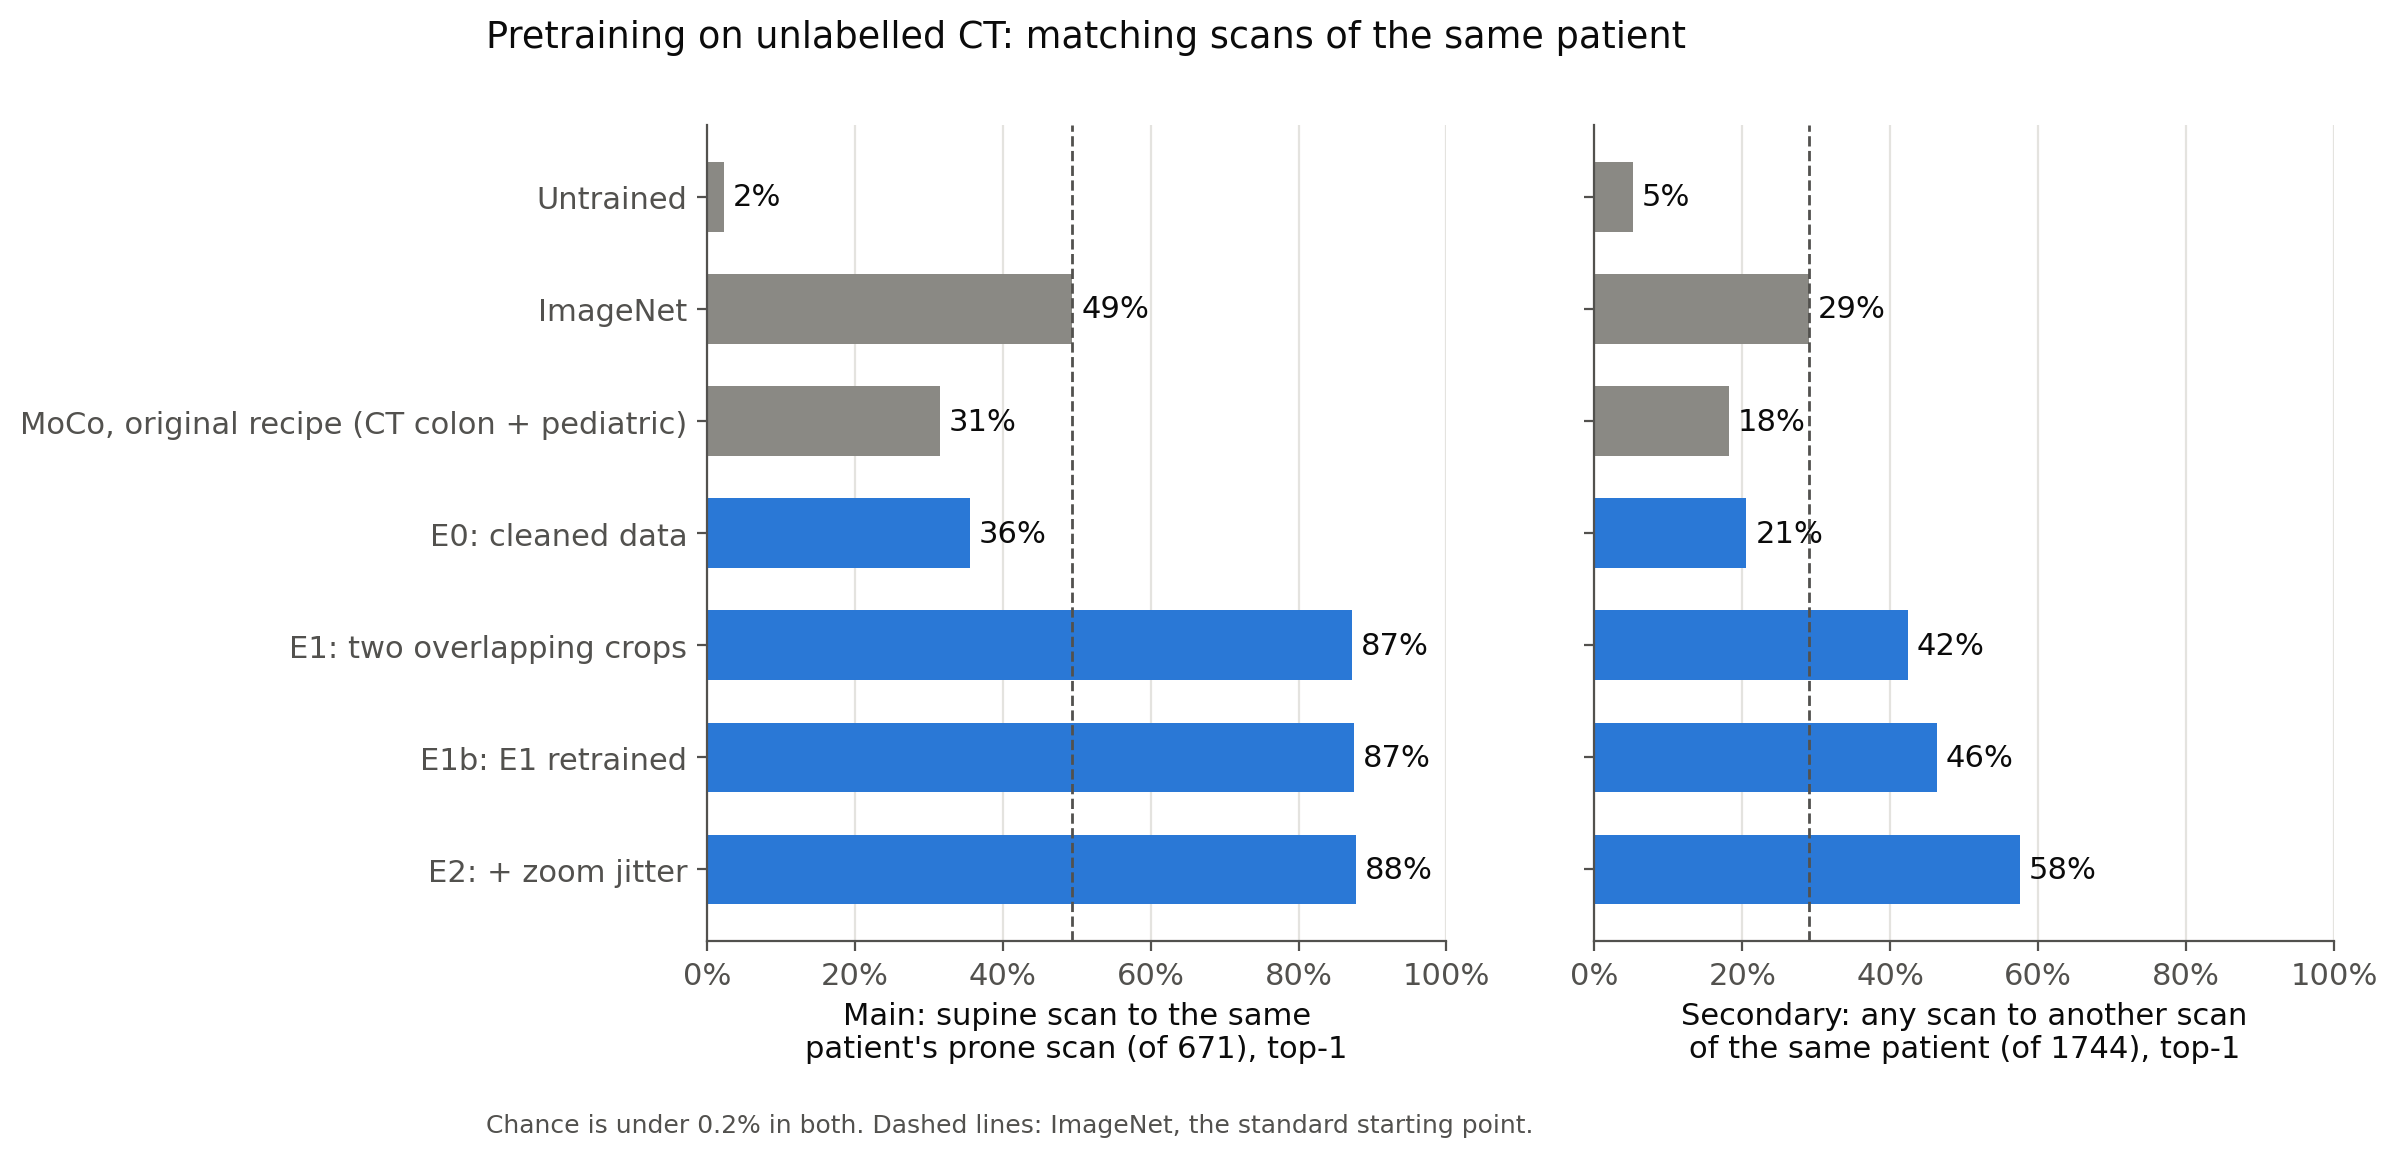
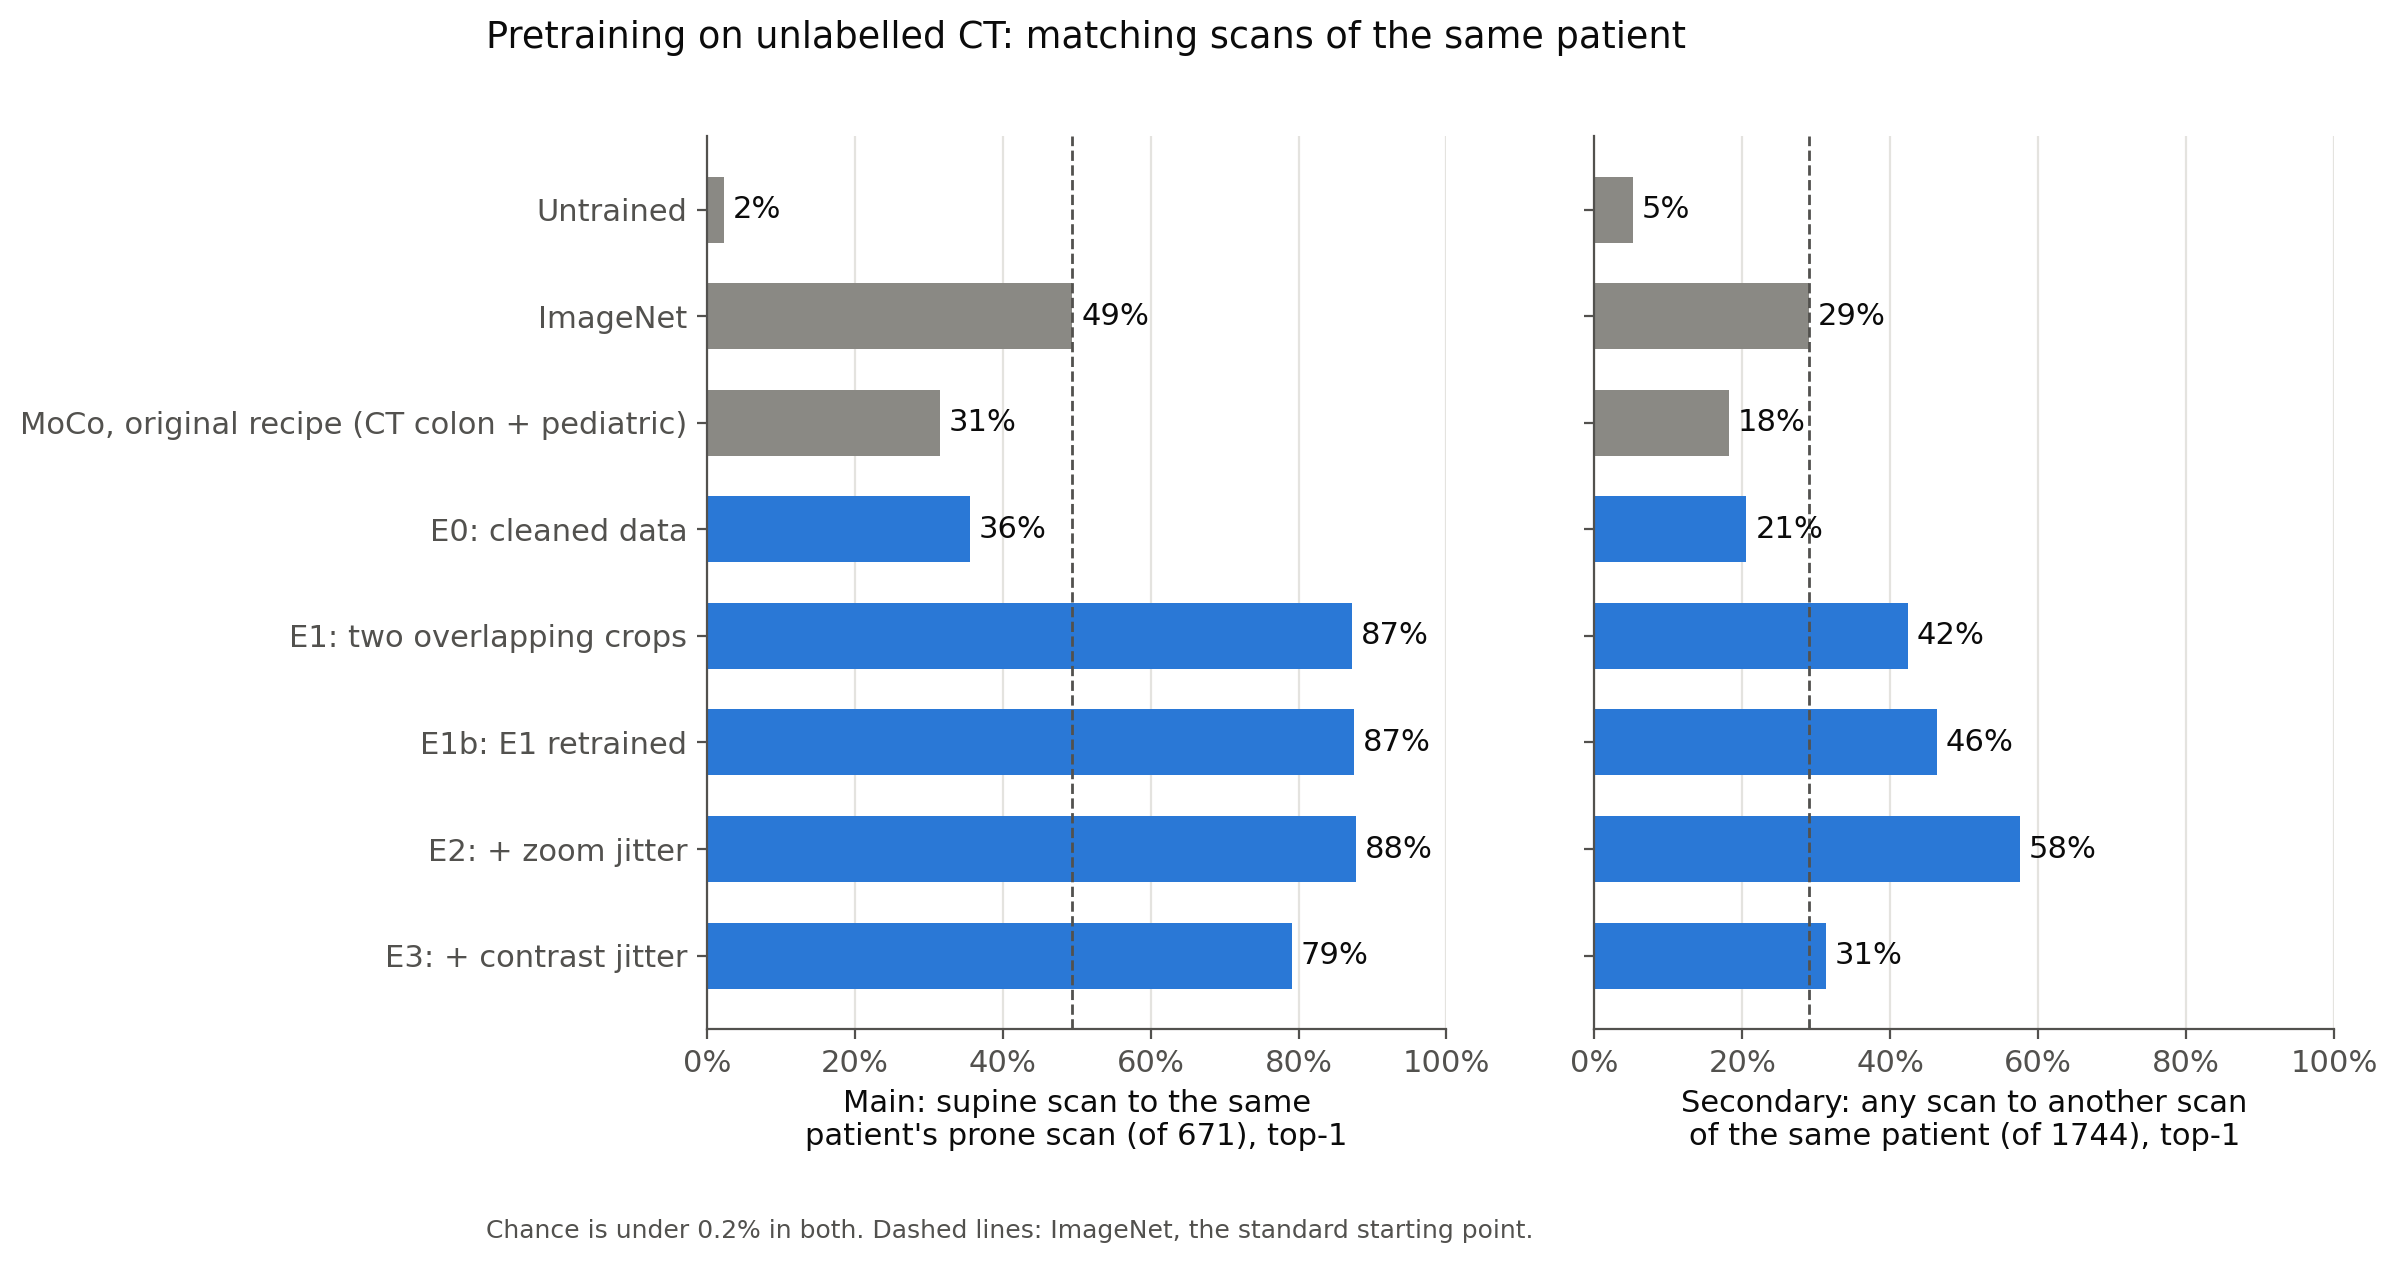
docs: record E3 result (window jitter harmful; E2 stays the recipe)

diff --git a/docs/experiments.md b/docs/experiments.md
@@ -622,6 +622,56 @@ is harder, as scale jitter should make it. Acc@1 *fell* between epochs 20 and
     current metrics (no per-subset retrieval), so it is recorded as untested,
     not as held or failed.
 
+### E3 — result (2026-10-06, job 64731828)
+
+Commit `3696e07`, empty diff, `job.txt` records `CROP_OVERLAP=0.3 0.7
+CROP_SCALE=160 320 WINDOW_JITTER=30`, so E2's recipe plus the jitter, as E2's
+verdict required. Ran 23:38 to 05:14 (5 h 36 m). Scored by 64731830 /
+64731831, acquisition probe 64731832.
+
+| Run | cross_pos top1 | vs ImageNet | any_series top1 | RankMe | align cos | zpos MAE | polyp bal-acc |
+|---|---|---|---|---|---|---|---|
+| E3:moco:checkpoint_0019.pth.tar | 0.201 | 0.41x | 0.120 | 461.9 | 0.9909 | 0.1191 | 0.361 |
+| E3:moco:checkpoint_0199.pth.tar | 0.791 | 1.60x | 0.313 | 430.2 | 0.9956 | 0.0804 | 0.294 |
+
+Pretext Acc@1 at epoch index 19, 49, 99, 199: 0.90, 16.8, 63.0, 81.2 (E2:
+9.27, 3.53, 52.7, 80.6). Final loss 1.25 (E2 1.35): the pretext task was no
+harder than E2's.
+
+**Verdict: harmful, on the pre-registered rule.** Cross-position 0.791 <
+0.838 (E2's 0.878 - 0.04). The next rung builds on E2, not E3.
+
+| metric | E2 | E3 | diff |
+|---|---|---|---|
+| cross_position top1 | 0.878 | 0.791 | **-0.087** |
+| any_series top1 | 0.575 | 0.313 | **-0.262** |
+| knn_zpos MAE | 0.0788 | 0.0804 | +0.002 (flat) |
+| knn_polyp bal-acc | 0.362 | 0.294 | -0.068 |
+| knn_prep bal-acc | 0.476 | 0.441 | -0.035 |
+| knn_contrast bal-acc | 0.574 | 0.500 | -0.074 (to chance) |
+| acquisition look-alike top1 | 0.972 | 0.951 | -0.021 |
+
+- **Not a bug, as far as checked.** Each view gets its own window, centre and
+  width each U(-30, 30) HU about `[-150, 250]`, drawn from the same per-worker
+  numpy stream as the crop positions that worked in E1/E2. The pretext task
+  trained normally. Not yet checked by eye on rendered pairs.
+- **Reading: absolute intensity carries patient identity.** Jitter teaches the
+  encoder to ignore small HU shifts, and both retrieval metrics fell, most of
+  all `any_series` (where same-acquisition reconstructions share exact
+  intensities). Depth (anatomy layout) is untouched. So part of what E1/E2
+  match on is intensity: tissue density, tagging, possibly scanner
+  calibration. Some of that is patient (fat, bone density), some may be
+  acquisition, and these metrics cannot split the two.
+- **The contrast probe fell to chance (0.574 to 0.500)**, which is what the
+  jitter should do to a tagging-sensitive encoder. That is the one intended
+  effect visible here; E3 removes the tagging signal E2 picked up.
+- **Caveat for Phase 3:** the retrieval metric rewards intensity cues that may
+  or may not help find polyps. Tagged stool vs polyp is an intensity question,
+  so E3 could still be the better polyp encoder. Phase 3 should score E2 and
+  E3 both, not only the retrieval winner.
+- One run. The drop (0.087) is ~40x E1/E1b's retrain gap on cross-position, so
+  a repeat would not change the verdict.
+
 ### E4 — exclude same-volume keys from the negatives
 
 - **Diff vs:** E3. Mask keys drawn from the query's own volume out of the queue.

diff --git a/docs/research_notes.md b/docs/research_notes.md
@@ -13,7 +13,7 @@ findings about the data and the code; that one holds what each run did.
 Kept current message to message: what is in flight, why, and what comes next.
 Settled findings move into the sections below; superseded ones are marked, not deleted.
 
-**As of 2026-10-05.** Two workstreams: **A** makes the data trustworthy and fast,
+**As of 2026-10-06.** Two workstreams: **A** makes the data trustworthy and fast,
 **B** runs the experiments on it. B's training runs wait on A; B's code does not.
 
 ### A. Data: rebuild the cache from `raw/` (Phase 1)
@@ -313,6 +313,17 @@ it; the one-time `mkdir` of the logs dir moved into README "Reproducing the data
   E3's decision rule (parent = E2's single run: cross 0.878, any_series
   0.575), `check_ledger.py`, then refresh figures (`jobs/figures.sh` with
   `RUNS` ending in whichever of E2/E3 the verdict keeps).
+- **E3 done 2026-10-06, harmful** (job 64731828 started 23:38 despite a
+  2026-10-08 estimate, ran 5 h 36 m; clean commit `3696e07`). Cross-position
+  0.791 (E2 0.878), `any_series` 0.313 (E2 0.575), depth flat, contrast probe
+  to chance. Code checked, no bug found. Reading: absolute HU intensity
+  carries patient identity that E1/E2 use. Recipe parent stays **E2**. E3
+  kept as a Phase 3 candidate, since intensity invariance could still help
+  polyp vs tagged stool. Verdict in `experiments.md`.
+- **Next decision (open):** the ladder's remaining rungs. E4 needs a new
+  falsifiable prediction (E1 already met its target) or to be dropped; E5
+  (supine/prone positives) would train on the main metric's own task. Option
+  on the table: stop the ladder at E2 and start Phase 3.
 - **Ladder runs need under 6 h; submit them with `-t 0-09:00:00`.** The
   3-day header limit only hurts scheduling (Sol refuses `scontrol update`
   on a queued job, so the fix is cancel and resubmit). Figures now compare
